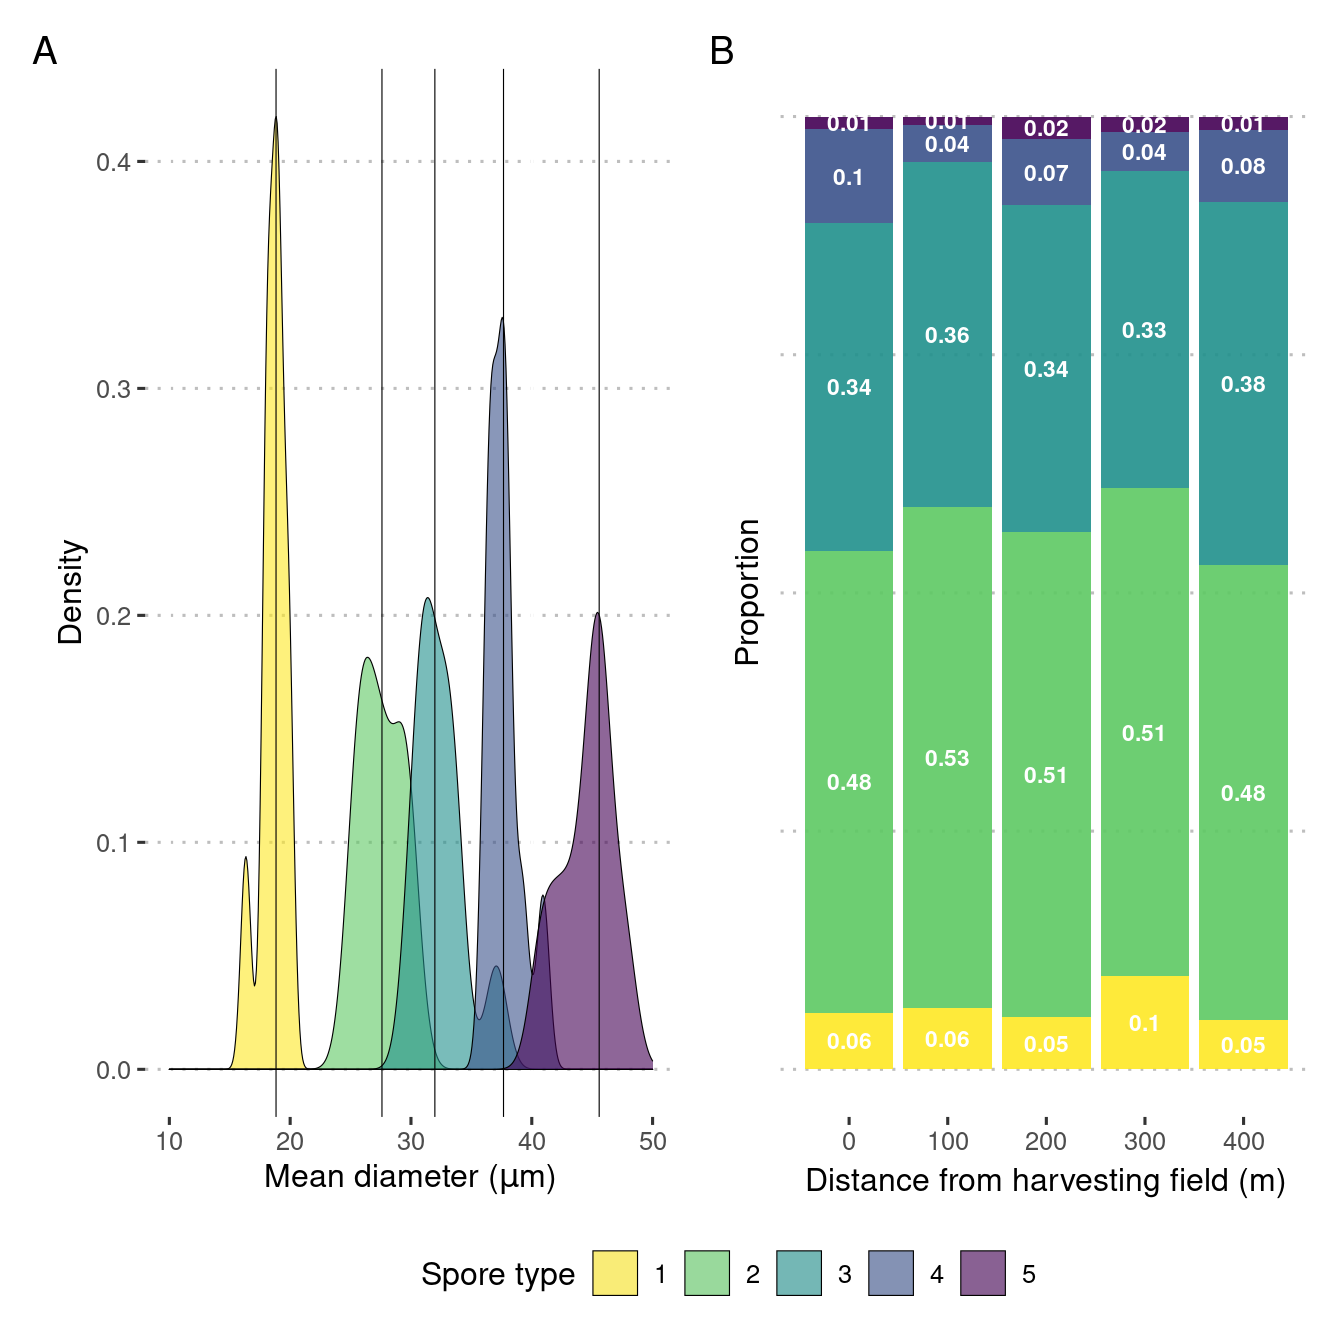
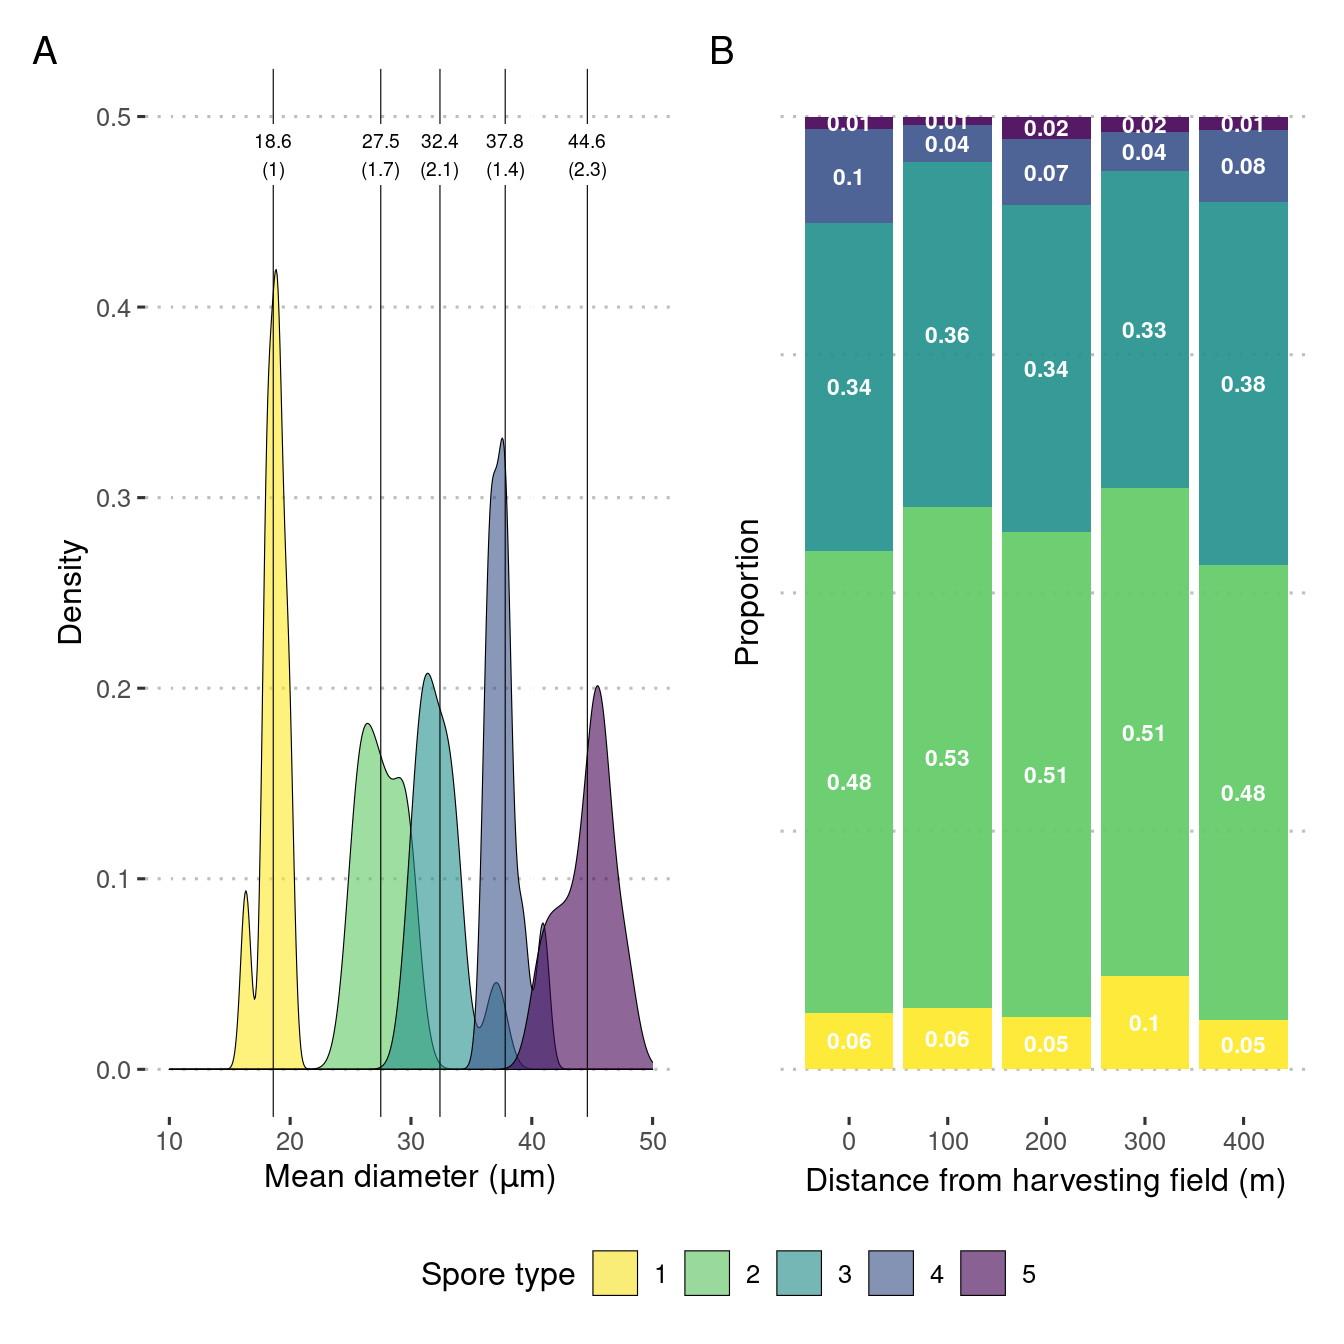
change spore size plot

diff --git a/data_viz.html b/data_viz.html
@@ -672,59 +672,41 @@ spore_type_plot &lt;- dat_spore_type_sum %&gt;%
 ## 6 46                1  18.1  18.1</code></pre>
 <pre class="r"><code>med_spore_size &lt;- dat_spore_size %&gt;%
   filter(image_id != 34) %&gt;%
-  mutate(d_mean = (d1 + d2) / 2) %&gt;%
+  mutate(d_mean = (d1 + d2) / 2, 
+         spore_type = as.factor(spore_type)) %&gt;%
   group_by(spore_type) %&gt;%
-  summarize(median=median(d_mean), 
-            sd=sd(d_mean))
+  summarize(mean=mean(d_mean), 
+            sd=sd(d_mean, na.rm = T)) %&gt;% 
+  mutate(across(where(is.numeric), round, 1))
 
-med_spore_size %&gt;% kable</code></pre>
-<table>
-<thead>
-<tr class="header">
-<th align="right">spore_type</th>
-<th align="right">median</th>
-<th align="right">sd</th>
-</tr>
-</thead>
-<tbody>
-<tr class="odd">
-<td align="right">1</td>
-<td align="right">18.83025</td>
-<td align="right">1.035879</td>
-</tr>
-<tr class="even">
-<td align="right">2</td>
-<td align="right">27.59850</td>
-<td align="right">1.729635</td>
-</tr>
-<tr class="odd">
-<td align="right">3</td>
-<td align="right">31.97775</td>
-<td align="right">2.071255</td>
-</tr>
-<tr class="even">
-<td align="right">4</td>
-<td align="right">37.66025</td>
-<td align="right">1.431812</td>
-</tr>
-<tr class="odd">
-<td align="right">5</td>
-<td align="right">45.57950</td>
-<td align="right">2.251160</td>
-</tr>
-</tbody>
-</table>
+med_spore_size</code></pre>
+<pre><code>## # A tibble: 5 × 3
+##   spore_type  mean    sd
+##   &lt;fct&gt;      &lt;dbl&gt; &lt;dbl&gt;
+## 1 1           18.6   1  
+## 2 2           27.5   1.7
+## 3 3           32.4   2.1
+## 4 4           37.8   1.4
+## 5 5           44.6   2.3</code></pre>
 <pre class="r"><code>spore_size_plot &lt;- dat_spore_size %&gt;%
   filter(image_id != 34) %&gt;%
-  mutate(d_mean = (d1 + d2) / 2) %&gt;% 
-  ggplot(aes(x=d_mean)) + 
+  mutate(mean = (d1 + d2) / 2) %&gt;% 
+  ggplot(aes(x=mean)) + 
   geom_density(aes(fill=factor(spore_type)), size=.2, alpha=.6) +
-  expand_limits(x = c(10, 50))+
+  expand_limits(x = c(10, 50), y = c(0, .5))+
   # scale_fill_viridis_d(direction = -1) +
-  geom_vline(data = med_spore_size, aes(xintercept = median), size=.2)+
+  geom_vline(data = med_spore_size, aes(xintercept = mean), size=.2)+
+  geom_label(data = med_spore_size, 
+             label.size = NA,             
+             aes(x = mean, 
+                label=paste0(mean, &quot;\n(&quot;, sd, &quot;)&quot;),
+                y = .48),
+            size=2.54)+
   labs(x = expression(paste(&quot;Mean diameter (&quot;, mu, m, &quot;)&quot;)),
        y = &quot;Density&quot;,
-       fill = &quot;Spore type&quot;)</code></pre>
+       fill = &quot;Spore type&quot;)
+
+# spore_size_plot  </code></pre>
 <pre class="r"><code>library(patchwork)
 spore_size_plot + spore_type_plot + 
   plot_layout(guides = &quot;collect&quot;) &amp; 
